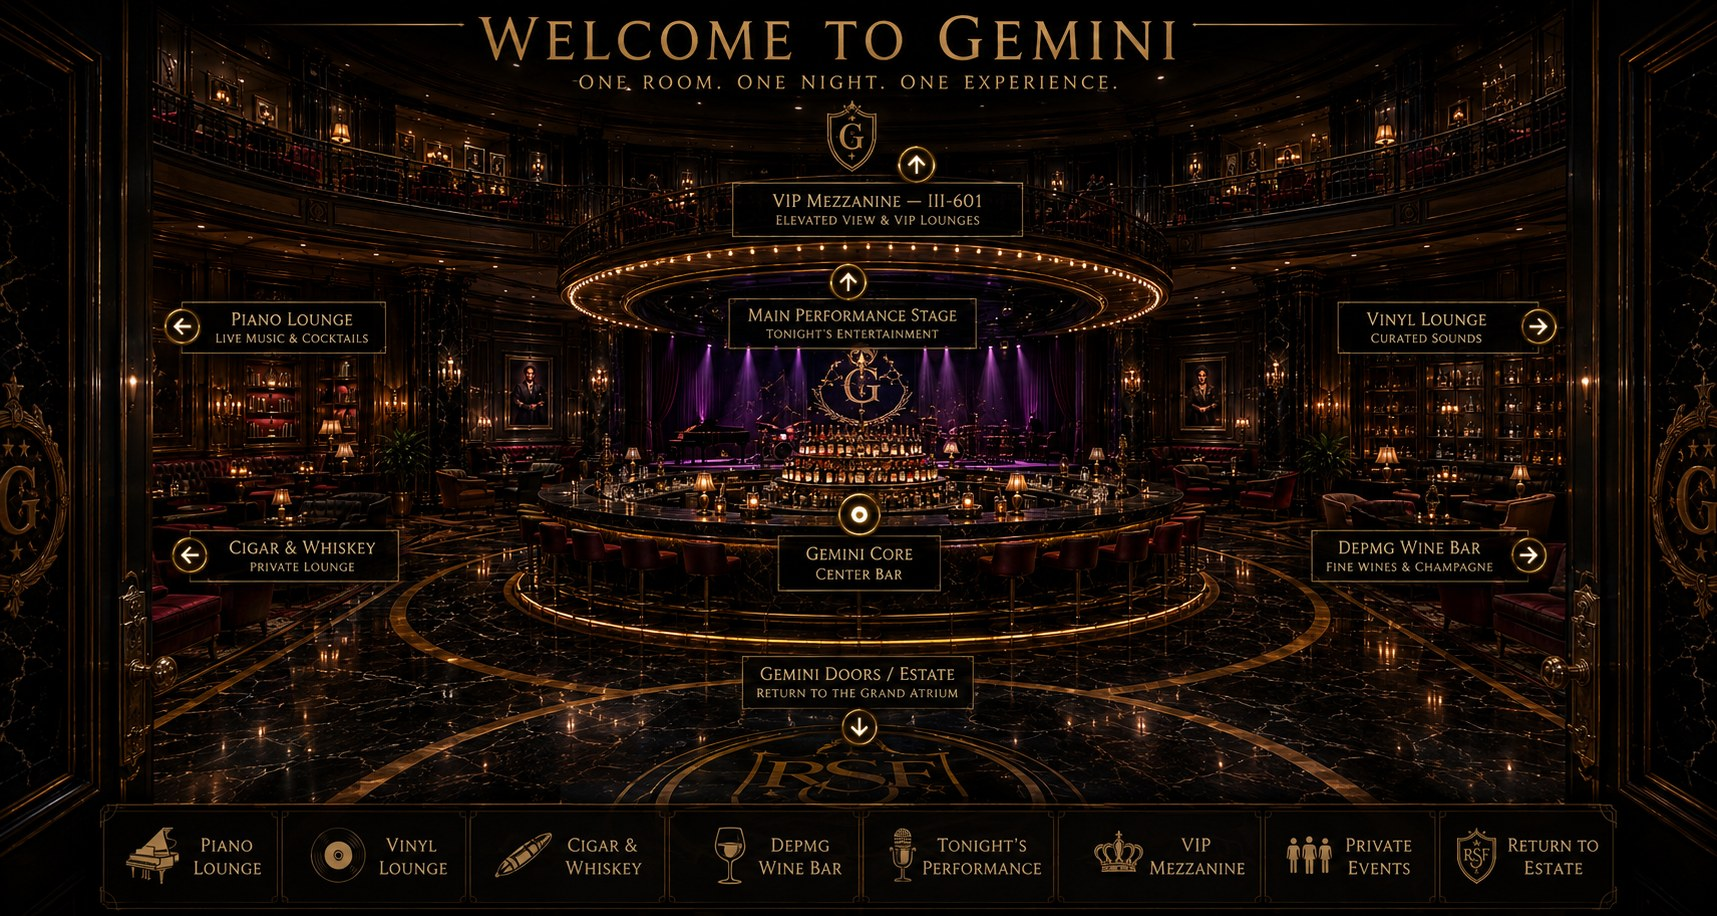
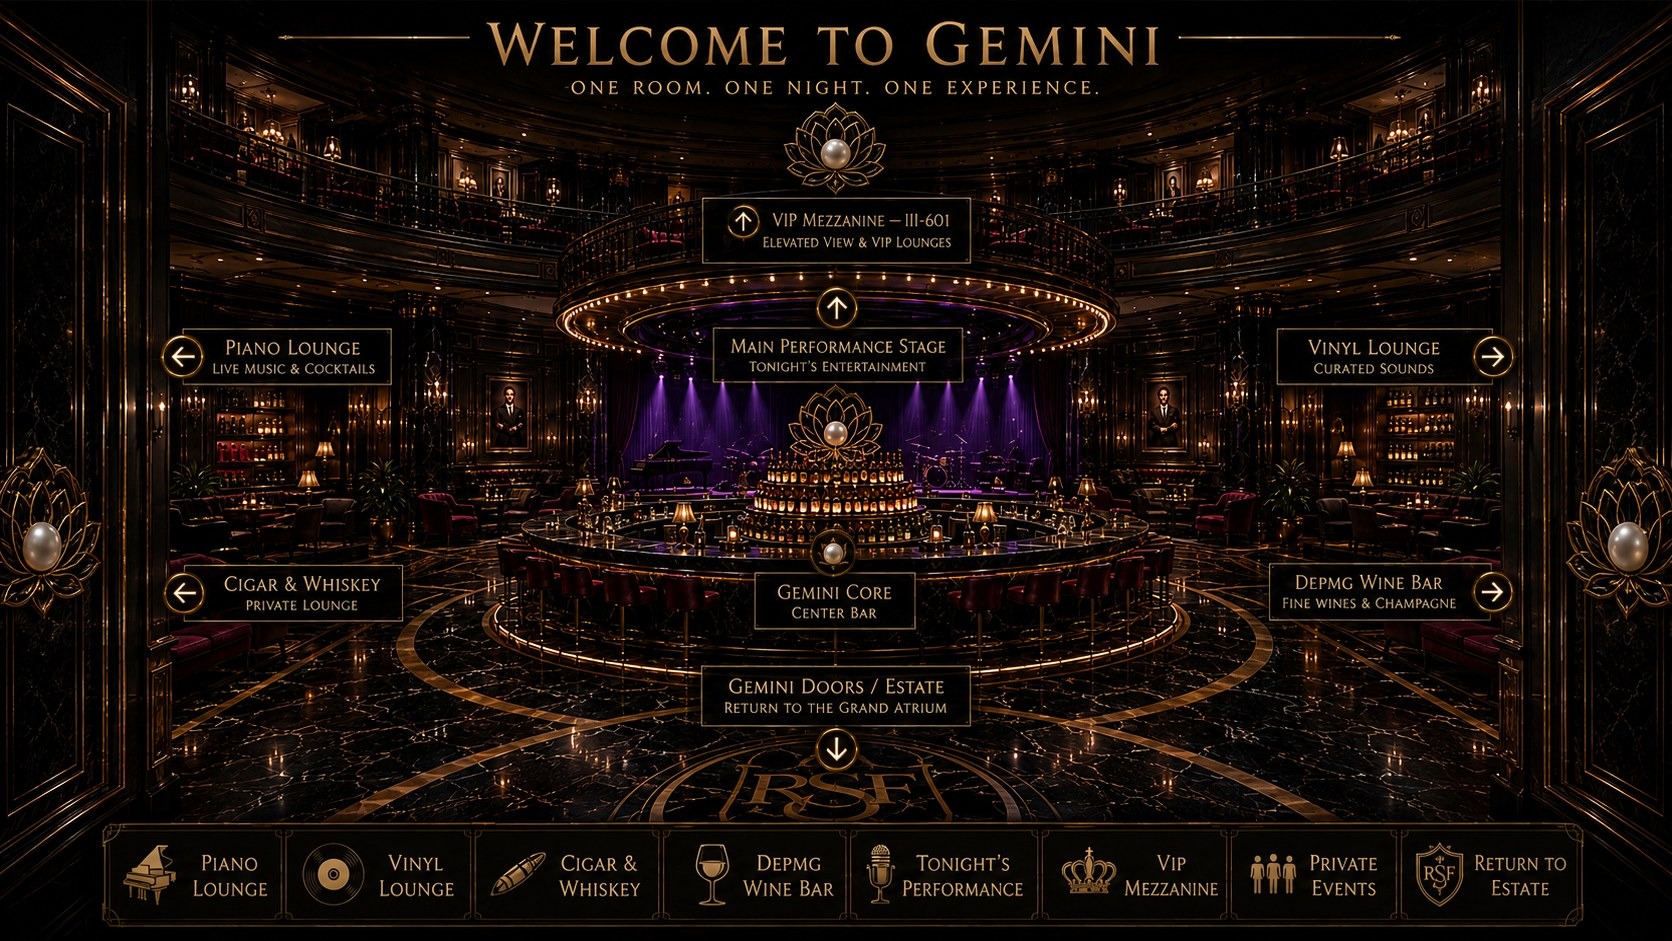
Replace the Gemini Hall hero with the updated render
New composition: a lotus-and-pearl emblem crowns the Core and the
champagne tower, with matching medallions on the side wall panels,
replacing the previous plain bottle-stack and OE shield medallion.

The new render's aspect ratio is slightly different (1.78 vs 1.87),
which shifts every label's position a few percent — re-measured all
sixteen hotspots from a fresh grid rather than assuming the old
coordinates would still land correctly, since a small aspect change
moves every fraction. Verified by hovering all eight primary hotspots
in a single screenshot: every halo sits exactly on its label, and the
Gemini Core hotspot still opens the bar overlay correctly.

Claude-Session: https://claude.ai/code/session_013tyV7MgM5AAYF41K3jRDGw

diff --git a/index.html b/index.html
@@ -4196,38 +4196,38 @@ document.addEventListener('keydown', function (e) {
 // ══ GEMINI HALL ARRIVAL — the render is the room ══
 const GEMINI_HERO_SPOTS = [
   { key:'vip',      label:'VIP Mezzanine — III-601',
-    ix:0.500, iy:0.222, w:0.175, h:0.052, action:'lock', msg:'The Mezzanine is reserved for members above.' },
+    ix:0.500, iy:0.243, w:0.175, h:0.052, action:'lock', msg:'The Mezzanine is reserved for members above.' },
   { key:'perf',     label:'Main Performance Stage — Tonight’s Entertainment',
-    ix:0.500, iy:0.298, w:0.175, h:0.052, action:'scroll' },
+    ix:0.500, iy:0.352, w:0.175, h:0.052, action:'scroll' },
   { key:'piano',    label:'Piano Lounge',
-    ix:0.173, iy:0.322, w:0.155, h:0.052, action:'lock', msg:'The Piano Lounge opens later this year.' },
+    ix:0.173, iy:0.352, w:0.155, h:0.052, action:'lock', msg:'The Piano Lounge opens later this year.' },
   { key:'vinyl',    label:'Vinyl Lounge',
-    ix:0.827, iy:0.322, w:0.155, h:0.052, action:'lock', msg:'The Vinyl Lounge opens later this year.' },
+    ix:0.827, iy:0.352, w:0.155, h:0.052, action:'lock', msg:'The Vinyl Lounge opens later this year.' },
   { key:'cigar',    label:'Cigar & Whiskey',
-    ix:0.173, iy:0.555, w:0.155, h:0.045, action:'lock', msg:'The Cigar & Whiskey Room opens later this year.' },
+    ix:0.173, iy:0.595, w:0.155, h:0.048, action:'lock', msg:'The Cigar & Whiskey Room opens later this year.' },
   { key:'wine',     label:'DEPMG Wine Bar',
-    ix:0.827, iy:0.555, w:0.155, h:0.045, action:'lock', msg:'The Wine Bar opens later this year.' },
+    ix:0.827, iy:0.595, w:0.155, h:0.048, action:'lock', msg:'The Wine Bar opens later this year.' },
   { key:'core',     label:'Gemini Core — Center Bar',
-    ix:0.500, iy:0.555, w:0.165, h:0.045, action:'bar' },
+    ix:0.500, iy:0.598, w:0.165, h:0.048, action:'bar' },
   { key:'doors',    label:'Gemini Doors — Return to the Estate',
-    ix:0.500, iy:0.705, w:0.165, h:0.045, action:'hall' },
+    ix:0.500, iy:0.735, w:0.165, h:0.048, action:'hall' },
   // the bottom rail repeats the same destinations across a single wide row
   { key:'piano2',   label:'Piano Lounge',
-    ix:0.1194, iy:0.910, w:0.109, h:0.10, action:'lock', msg:'The Piano Lounge opens later this year.' },
+    ix:0.1194, iy:0.900, w:0.109, h:0.11, action:'lock', msg:'The Piano Lounge opens later this year.' },
   { key:'vinyl2',   label:'Vinyl Lounge',
-    ix:0.2280, iy:0.910, w:0.109, h:0.10, action:'lock', msg:'The Vinyl Lounge opens later this year.' },
+    ix:0.2280, iy:0.900, w:0.109, h:0.11, action:'lock', msg:'The Vinyl Lounge opens later this year.' },
   { key:'cigar2',   label:'Cigar & Whiskey',
-    ix:0.3370, iy:0.910, w:0.109, h:0.10, action:'lock', msg:'The Cigar & Whiskey Room opens later this year.' },
+    ix:0.3370, iy:0.900, w:0.109, h:0.11, action:'lock', msg:'The Cigar & Whiskey Room opens later this year.' },
   { key:'wine2',    label:'DEPMG Wine Bar',
-    ix:0.4460, iy:0.910, w:0.109, h:0.10, action:'lock', msg:'The Wine Bar opens later this year.' },
+    ix:0.4460, iy:0.900, w:0.109, h:0.11, action:'lock', msg:'The Wine Bar opens later this year.' },
   { key:'perf2',    label:'Tonight’s Performance',
-    ix:0.5540, iy:0.910, w:0.109, h:0.10, action:'scroll' },
+    ix:0.5540, iy:0.900, w:0.109, h:0.11, action:'scroll' },
   { key:'vip2',     label:'VIP Mezzanine',
-    ix:0.6630, iy:0.910, w:0.109, h:0.10, action:'lock', msg:'The Mezzanine is reserved for members above.' },
+    ix:0.6630, iy:0.900, w:0.109, h:0.11, action:'lock', msg:'The Mezzanine is reserved for members above.' },
   { key:'private',  label:'Private Events',
-    ix:0.7720, iy:0.910, w:0.109, h:0.10, action:'lock', msg:'Private events are arranged through the concierge.' },
+    ix:0.7720, iy:0.900, w:0.109, h:0.11, action:'lock', msg:'Private events are arranged through the concierge.' },
   { key:'estate',   label:'Return to Estate',
-    ix:0.8800, iy:0.910, w:0.109, h:0.10, action:'hall' },
+    ix:0.8800, iy:0.900, w:0.109, h:0.11, action:'hall' },
 ];
 
 function ghAction(spot, btn) {
@@ -4294,7 +4294,7 @@ function layoutGeminiHero() {
   const frame = document.getElementById('gh-frame');
   const nav = document.getElementById('gh-nav');
   if (!frame || !nav || !nav.childElementCount) return;
-  const aspect = 1717 / 916;
+  const aspect = 1672 / 941;
   const vw = window.innerWidth, vh = window.innerHeight;
   let w = vw, h = vw / aspect;
   if (h > vh) { h = vh; w = vh * aspect; }   // contain: every hotspot stays reachable
